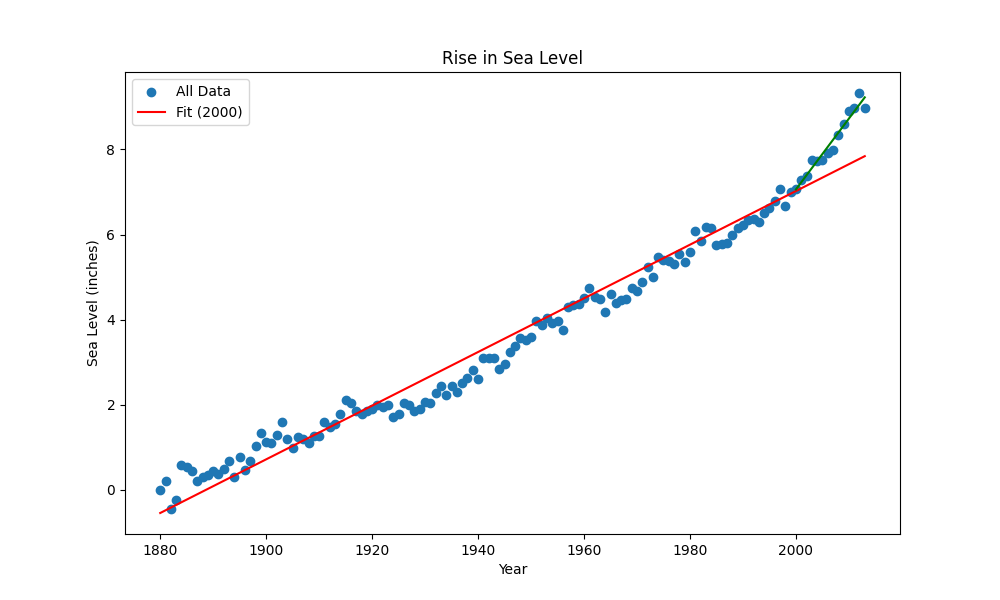
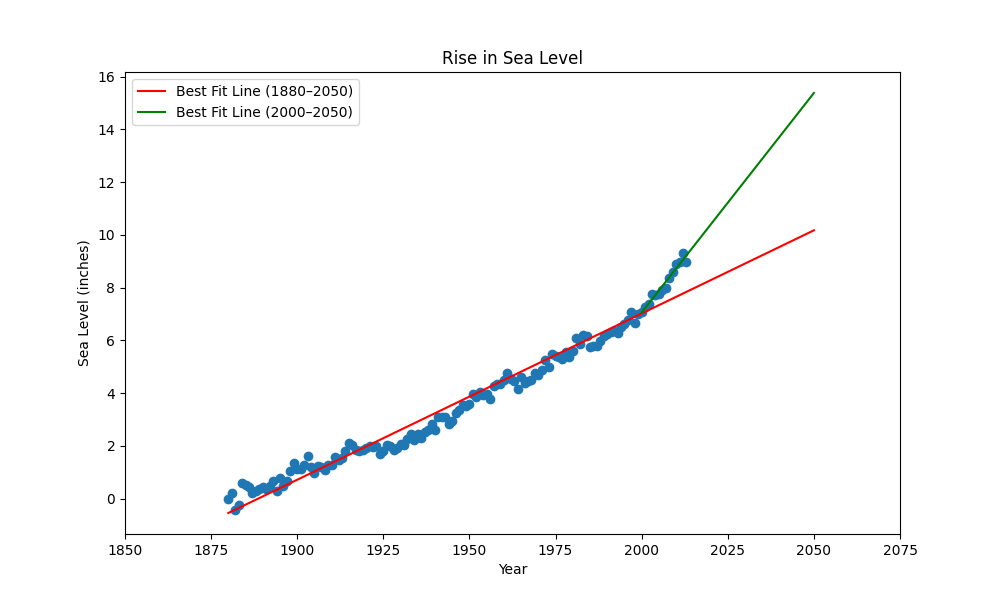
Fix bugs and completion

diff --git a/sea_level_predictor.py b/sea_level_predictor.py
@@ -6,29 +6,30 @@ def draw_plot():
     # 1. Read data from file
     df = pd.read_csv("epa-sea-level.csv")
 
-    # 2. Create scatter plot
-    plt.figure(figsize=(10, 6))
-    plt.scatter(df["Year"], df["CSIRO Adjusted Sea Level"])
+    # 2. Create figure and axes, then scatter plot
+    fig, ax = plt.subplots(figsize=(10, 6))
+    ax.scatter(df["Year"], df["CSIRO Adjusted Sea Level"])
 
     # 3. Create first line of best fit (1880–2050)
     linres1 = linregress(df["Year"], df["CSIRO Adjusted Sea Level"])
     x_predict1 = pd.Series(range(1880, 2051))
     y_predict1 = linres1.intercept + linres1.slope * x_predict1
-    plt.plot(x_predict1, y_predict1, 'r', label='Best Fit Line (1880–2050)')
+    ax.plot(x_predict1, y_predict1, 'r', label='Best Fit Line (1880–2050)')
 
     # 4. Create second line of best fit (2000–2050)
     df_recent = df[df["Year"] >= 2000]
     linres2 = linregress(df_recent["Year"], df_recent["CSIRO Adjusted Sea Level"])
     x_predict2 = pd.Series(range(2000, 2051))
     y_predict2 = linres2.intercept + linres2.slope * x_predict2
-    plt.plot(x_predict2, y_predict2, 'green', label='Best Fit Line (2000–2050)')
+    ax.plot(x_predict2, y_predict2, 'green', label='Best Fit Line (2000–2050)')
 
-    # 5. Add labels and title
-    plt.xlabel("Year")
-    plt.ylabel("Sea Level (inches)")
-    plt.title("Rise in Sea Level")
-    plt.legend()
+    # 5. Add labels, title, and ticks
+    ax.set_xlabel("Year")
+    ax.set_ylabel("Sea Level (inches)")
+    ax.set_title("Rise in Sea Level")
+    ax.legend()
+    ax.set_xticks([1850.0, 1875.0, 1900.0, 1925.0, 1950.0, 1975.0, 2000.0, 2025.0, 2050.0, 2075.0])
 
-    # 6. Save and return the figure
-    plt.savefig("sea_level_plot.png")
-    return plt.gcf()
+    # 6. Save the figure and return axes
+    fig.savefig("sea_level_plot.png")
+    return ax
